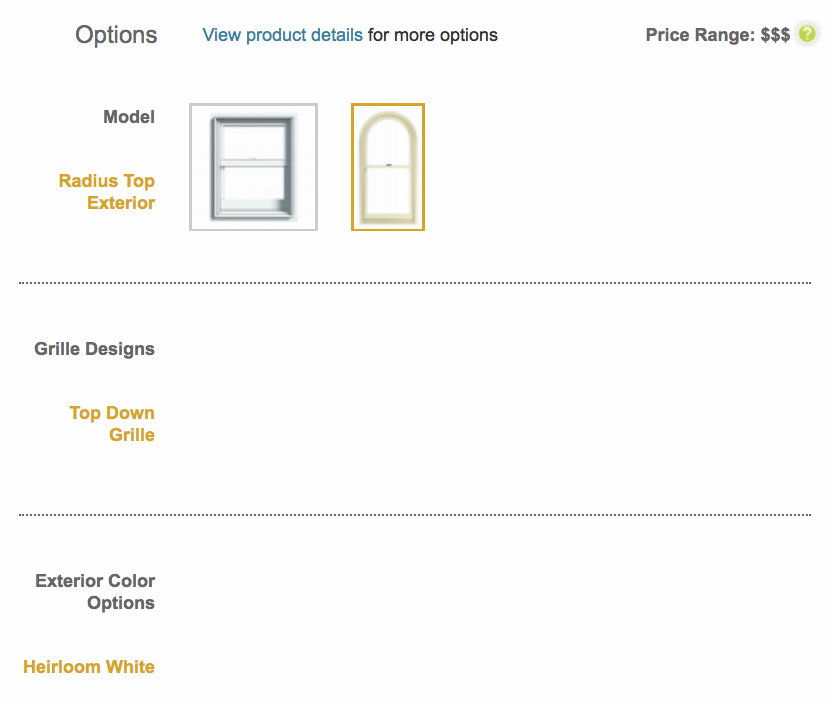
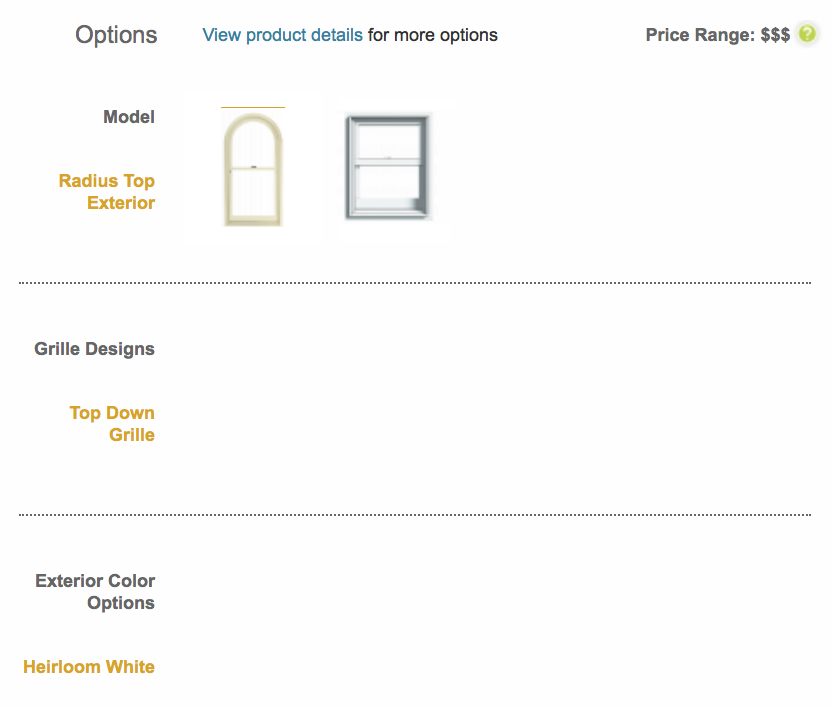
changed lighting, viewbar buttons, new views

Changed region(s): [[0.2188, 0.1246, 0.5312, 0.3428]]

diff --git a/docs/js/app.js b/docs/js/app.js
@@ -23,18 +23,15 @@ window.app = new Vue({
     // get view state from console
     // v=viewer.getState();delete(v.seedURN);delete(v.objectSet);delete(v.renderOptions);delete(v.cutplanes);JSON.stringify(v)
     interiorViewList: [
-      {"viewport":{"name":"","eye":[664.998896757992,974.4528583677848,-2853.5124661039504],"target":[-341.6835041212396,-470.0068899700484,1118.165828068862],"up":[-0.08169020310061798,0.9431084788113914,0.3222935120529782],"worldUpVector":[0,1,2.560839e-16],"pivotPoint":[7.673578235792149,5.988379140379028,16.402849631116737],"distanceToOrbit":3097.9888049543088,"aspectRatio":0.9984076433121019,"projection":"perspective","isOrthographic":false,"fieldOfView":30.09018266215554}},
-      {"viewport":{"name":"","eye":[976.5101249191881,1718.6634295254032,-2431.7969075209626],"target":[-422.8093501660627,-744.9101930444501,861.652941199498],"up":[-0.22174869042274326,0.8236734455193347,0.521909545268245],"worldUpVector":[0,1,2.560839e-16],"pivotPoint":[7.673578235792149,5.988379140379028,16.402849631116737],"distanceToOrbit":3038.457095514863,"aspectRatio":0.9984076433121019,"projection":"perspective","isOrthographic":false,"fieldOfView":30.090182578868873}},
       {"viewport":{"name":"","eye":[-23.934733209144355,1585.5847878552026,-1890.290668372906],"target":[-49.90142686214491,-1156.0759007627867,1479.6832621670778],"up":[-0.004862479443179459,0.7757223164351729,0.6310556584629555],"worldUpVector":[0,1,2.560839e-16],"pivotPoint":[7.673578235792149,5.988379140379028,16.402849631116737],"distanceToOrbit":2475.674726785508,"aspectRatio":0.9984076433121019,"projection":"perspective","isOrthographic":false,"fieldOfView":30.09018228309893}},
-      {"viewport":{"name":"","eye":[-222.02474377459984,168.5862829262623,-703.3215295370461],"target":[-247.9914374276004,-2573.074405691725,2666.65240100294],"up":[-0.004862479443179459,0.7757223164351729,0.6310556584629555],"worldUpVector":[0,1,2.560839e-16],"pivotPoint":[7.673578235792149,5.988379140379028,16.402849631116737],"distanceToOrbit":659.5281550670321,"aspectRatio":0.9984076433121019,"projection":"perspective","isOrthographic":false,"fieldOfView":30.090182650926582}},      {"viewport":{"name":"","eye":[-859.805917960608,1611.4059860741584,-2580.245480753893],"target":[223.69359468339576,-707.0994285191484,930.404507754411],"up":[0.1573833435418812,0.8456911231682037,0.5099382387800315],"worldUpVector":[0,1,2.560839e-16],"pivotPoint":[7.673578235792149,5.988379140379028,16.402849631116737],"distanceToOrbit":3038.457095514863,"aspectRatio":0.9984076433121019,"projection":"perspective","isOrthographic":false,"fieldOfView":30.090182654017124}},
+      {"viewport":{"name":"","eye":[976.5101249191881,1718.6634295254032,-2431.7969075209626],"target":[-422.8093501660627,-744.9101930444501,861.652941199498],"up":[-0.22174869042274326,0.8236734455193347,0.521909545268245],"worldUpVector":[0,1,2.560839e-16],"pivotPoint":[7.673578235792149,5.988379140379028,16.402849631116737],"distanceToOrbit":3038.457095514863,"aspectRatio":0.9984076433121019,"projection":"perspective","isOrthographic":false,"fieldOfView":30.090182578868873}},
       {"viewport":{"name":"","eye":[-651.0359863388851,1056.851887396308,-308.2953629206646],"target":[1400.1345281794809,-2522.750141561499,1053.046154797517],"up":[0.686510683790031,0.5666604666029178,0.45563032891973676],"worldUpVector":[0,1,2.560839e-16],"pivotPoint":[7.673578235792149,5.988379140379028,16.402849631116737],"distanceToOrbit":1278.607215448336,"aspectRatio":1.063305978898007,"projection":"perspective","isOrthographic":false,"fieldOfView":37.038556104489004}},
-      {"viewport":{"name":"","eye":[-1366.6406035366042,275.0394746708141,-2745.903649513959],"target":[483.61675507406335,-188.6582152409079,1157.3813839532672],"up":[0.0457181594048278,0.99428763733196,0.09644658702859152],"worldUpVector":[0,1,2.560839e-16],"pivotPoint":[7.673578235792149,5.988379140379028,16.402849631116737],"distanceToOrbit":3038.4570955148633,"aspectRatio":0.9984076433121019,"projection":"perspective","isOrthographic":false,"fieldOfView":30.090182654017124}},
-      {"viewport":{"name":"","eye":[-5.878521481998469,201.84753452359269,-3040.1208875812345],"target":[-83.54806386681821,-158.05577397739137,1288.6825202818918],"up":[-0.0014861603805041029,0.9965626604263528,0.08282907201746037],"worldUpVector":[0,1,2.560839e-16],"pivotPoint":[7.673578235792149,5.988379140379028,16.402849631116737],"distanceToOrbit":3038.4570955148633,"aspectRatio":0.9984076433121019,"projection":"perspective","isOrthographic":false,"fieldOfView":30.090182654017124}},
+      {"viewport":{"name":"","eye":[-222.02474377459984,168.5862829262623,-703.3215295370461],"target":[-247.9914374276004,-2573.074405691725,2666.65240100294],"up":[-0.004862479443179459,0.7757223164351729,0.6310556584629555],"worldUpVector":[0,1,2.560839e-16],"pivotPoint":[7.673578235792149,5.988379140379028,16.402849631116737],"distanceToOrbit":659.5281550670321,"aspectRatio":0.9984076433121019,"projection":"perspective","isOrthographic":false,"fieldOfView":30.090182650926582}},      {"viewport":{"name":"","eye":[-859.805917960608,1611.4059860741584,-2580.245480753893],"target":[223.69359468339576,-707.0994285191484,930.404507754411],"up":[0.1573833435418812,0.8456911231682037,0.5099382387800315],"worldUpVector":[0,1,2.560839e-16],"pivotPoint":[7.673578235792149,5.988379140379028,16.402849631116737],"distanceToOrbit":3038.457095514863,"aspectRatio":0.9984076433121019,"projection":"perspective","isOrthographic":false,"fieldOfView":30.090182654017124}},
     ],
     exteriorViewList: [
+      {"viewport":{"name":"","eye":[1.3948304776675966,2150.613879984592,1661.0761419912435],"target":[41.78361101778469,-1306.2716410814744,-969.9717735477261],"up":[0.012213289989098961,0.6056849381739119,-0.795610828996757],"worldUpVector":[0,1,2.560839e-16],"pivotPoint":[7.673578235792149,5.988379140379028,16.402849631116737],"distanceToOrbit":2702.5831651822923,"aspectRatio":0.8256624825662483,"projection":"perspective","isOrthographic":false,"fieldOfView":30.09018266215554}},
       {"viewport":{"name":"","eye":[-1531.7566468128357,382.44016289613535,2680.0192968885053],"target":[701.7056140748623,-236.092421840033,-994.6460843430514],"up":[0.07394720379451296,0.9898129928875554,-0.12166367642790113],"worldUpVector":[0,1,2.560839e-16],"pivotPoint":[7.673578235792149,5.988379140379028,16.402849631116737],"distanceToOrbit":3097.988804954309,"aspectRatio":0.8256624825662483,"projection":"perspective","isOrthographic":false,"fieldOfView":30.09018266215554}},
       {"viewport":{"name":"","eye":[-1938.5312951199232,1992.7586277325167,1384.4103465483786],"target":[793.0653131778392,-862.3733082399949,-421.3314652668321],"up":[0.5482329645213153,0.7537221977848498,-0.3624133898996367],"worldUpVector":[0,1,2.560839e-16],"pivotPoint":[7.673578235792149,5.988379140379028,16.402849631116737],"distanceToOrbit":3097.988804954309,"aspectRatio":0.8256624825662483,"projection":"perspective","isOrthographic":false,"fieldOfView":30.09018266215554}},
-      {"viewport":{"name":"","eye":[1.3948304776675966,2150.613879984592,1661.0761419912435],"target":[41.78361101778469,-1306.2716410814744,-969.9717735477261],"up":[0.012213289989098961,0.6056849381739119,-0.795610828996757],"worldUpVector":[0,1,2.560839e-16],"pivotPoint":[7.673578235792149,5.988379140379028,16.402849631116737],"distanceToOrbit":2702.5831651822923,"aspectRatio":0.8256624825662483,"projection":"perspective","isOrthographic":false,"fieldOfView":30.09018266215554}},
       {"viewport":{"name":"","eye":[3180.1270079242804,-83.77588186072347,738.0076454320756],"target":[-1057.3980556166152,-35.107938918820764,-218.60861012930286],"up":[0.010927384556393293,0.9999372515047872,0.002466844099013219],"worldUpVector":[0,1,2.560839e-16],"pivotPoint":[7.673578235792149,5.988379140379028,16.402849631116737],"distanceToOrbit":3254.2835893729575,"aspectRatio":0.8256624825662483,"projection":"perspective","isOrthographic":false,"fieldOfView":30.09018266215554}},
       {"viewport":{"name":"","eye":[1177.110272600259,-400.3046677968286,510.4695545911544],"target":[-2774.5390951023783,-686.0844418242593,-1271.916231007433],"up":[-0.059963262173177226,0.9978341056975893,-0.02704634349118061],"worldUpVector":[0,1,2.560839e-16],"pivotPoint":[7.673578235792149,5.988379140379028,16.402849631116737],"distanceToOrbit":1239.6808440502773,"aspectRatio":0.8256624825662483,"projection":"perspective","isOrthographic":false,"fieldOfView":30.09018266215554}},
     ],
@@ -68,7 +65,15 @@ window.app = new Vue({
 
       //create fast list of THREE material objects
       this.colorList.map(color => {
-        this.materials[color] = new THREE.MeshBasicMaterial({ side:THREE.FrontSide, color: color });
+        //this.materials[color] = new THREE.MeshBasicMaterial({ side:THREE.FrontSide, color: color });
+          this.materials[color] = new THREE.MeshPhongMaterial({
+          specular: new THREE.Color(color),
+          side: THREE.FrontSide,
+          reflectivity: 0,
+          shininess:0,
+          envMap:null,
+          color:color
+        });
         viewer.impl.matman().addMaterial( 'paint'+color, this.materials[color], true);
       })
 
@@ -101,13 +106,15 @@ window.app = new Vue({
       // flip between view states
       viewer.canvas.addEventListener('mousedown',(e => 
         this.mousemoved=true) );
+      viewer.canvas.addEventListener('mousewheel',(e => 
+        this.mousemoved=true) );
       setInterval(e=> {
         if (this.mousemoved) {
           this.mousemoved = false; 
           return;
         }
         this.viewstate++; this.viewstate%=this.viewlist.length; this.setView(this.viewstate);
-      },6000 );
+      },8000 );
     },
 
     onSuccess: function() {
@@ -119,7 +126,7 @@ window.app = new Vue({
       this.setView(0);
       viewer.setBackgroundColor(180,220,255,255,255,255);
       viewer.impl.toggleShadows(true);
-      viewer.impl.setShadowLightDirection(new THREE.Vector3(-30,130,-30));
+      viewer.impl.setShadowLightDirection(new THREE.Vector3(-30,120,30));  //-30,130,-30));
       initMaterial();
       viewer.addEventListener(Autodesk.Viewing.GEOMETRY_LOADED_EVENT, this.onGeometryLoaded);
     },

diff --git a/docs/viewer.html b/docs/viewer.html
@@ -20,10 +20,10 @@
 <!-- Sidebar -->
   <div id="app" class="sidebar">
     <ul> 
-      <li><button v-for="item,i in interiorList" v-bind:class="{ active: (interior==i) }" @click="setInterior(i)">{{i}}</button></li>
+      <li><button v-for="item,i in interiorList" class="interiorbar" v-bind:class="{ active: (interior==i) }" @click="setInterior(i)"/></li>
       <li><button v-for="item,i in grillList" class="grillbar" v-bind:style="{ backgroundPosition: -i*48 + 'px 0px' }"  v-bind:class="{active: grill==i}" @click="setGrill(i)"/></li>
       <li class="colorbar"><button v-for="item,i in colorList" v-bind:class="{active: color==i}" v-bind:style="{ backgroundColor: item }" @click="setColor(i)"/></li>
-      <li class="viewbar"><button v-for="item,i in viewlist" v-bind:class="{ active: (viewstate==i) }"@click="setView(i)">&#9864;</button></li>
+      <li class="viewbar"><button v-for="item,i in viewlist" v-bind:class="{ active: (viewstate==i) }"@click="setView(i);mousemoved=true;">&#9864;</button></li>
       </ul>
       <img id="panel" src="img/options.png" style="width:100%">
   </div>

diff --git a/docs/js/styles.css b/docs/js/styles.css
@@ -2,18 +2,23 @@
 
 body { font-family: 'Lato', sans-serif; font-size: 11px}
 
-ul {position:fixed; right:55px; top:40px; list-style-type: none;}
+ul {position:fixed; right:55px; top:33px; list-style-type: none;}
 li {margin-bottom:62px;}
-button { outline: 0; border: 2px solid #fff; height:40px; background-color:transparent;}
+button { outline: 0; border: 2px solid #fff0; height:40px; background-color:transparent;}
 button:hover{ border: 2px solid #eee; }
 button.active{ border: 2px solid #ca0; }
 
 .sidebar {z-index:1; height:100%; position:fixed; right:0px; width:360px; background-color:#fff; border-left: solid 1px lightgray;}
 
-.viewbar {	position: fixed; bottom: -50px; left: 100px; border: 1px solid #ddd; border-radius: 25px; margin-bottom:60px;}
+.viewbar {	position: fixed; bottom: -50px; left: 140px; border: 1px solid #ddd; border-radius: 25px; margin-bottom:60px;}
 .viewbar button { border-radius:25px; height:25px;}
 
-.colorbar button{
+.interiorbar {
+	width:57px;
+	height:57px;
+}
+
+.colorbar button {
 	width:30px;
 	height:30px;
 	margin:1px;
